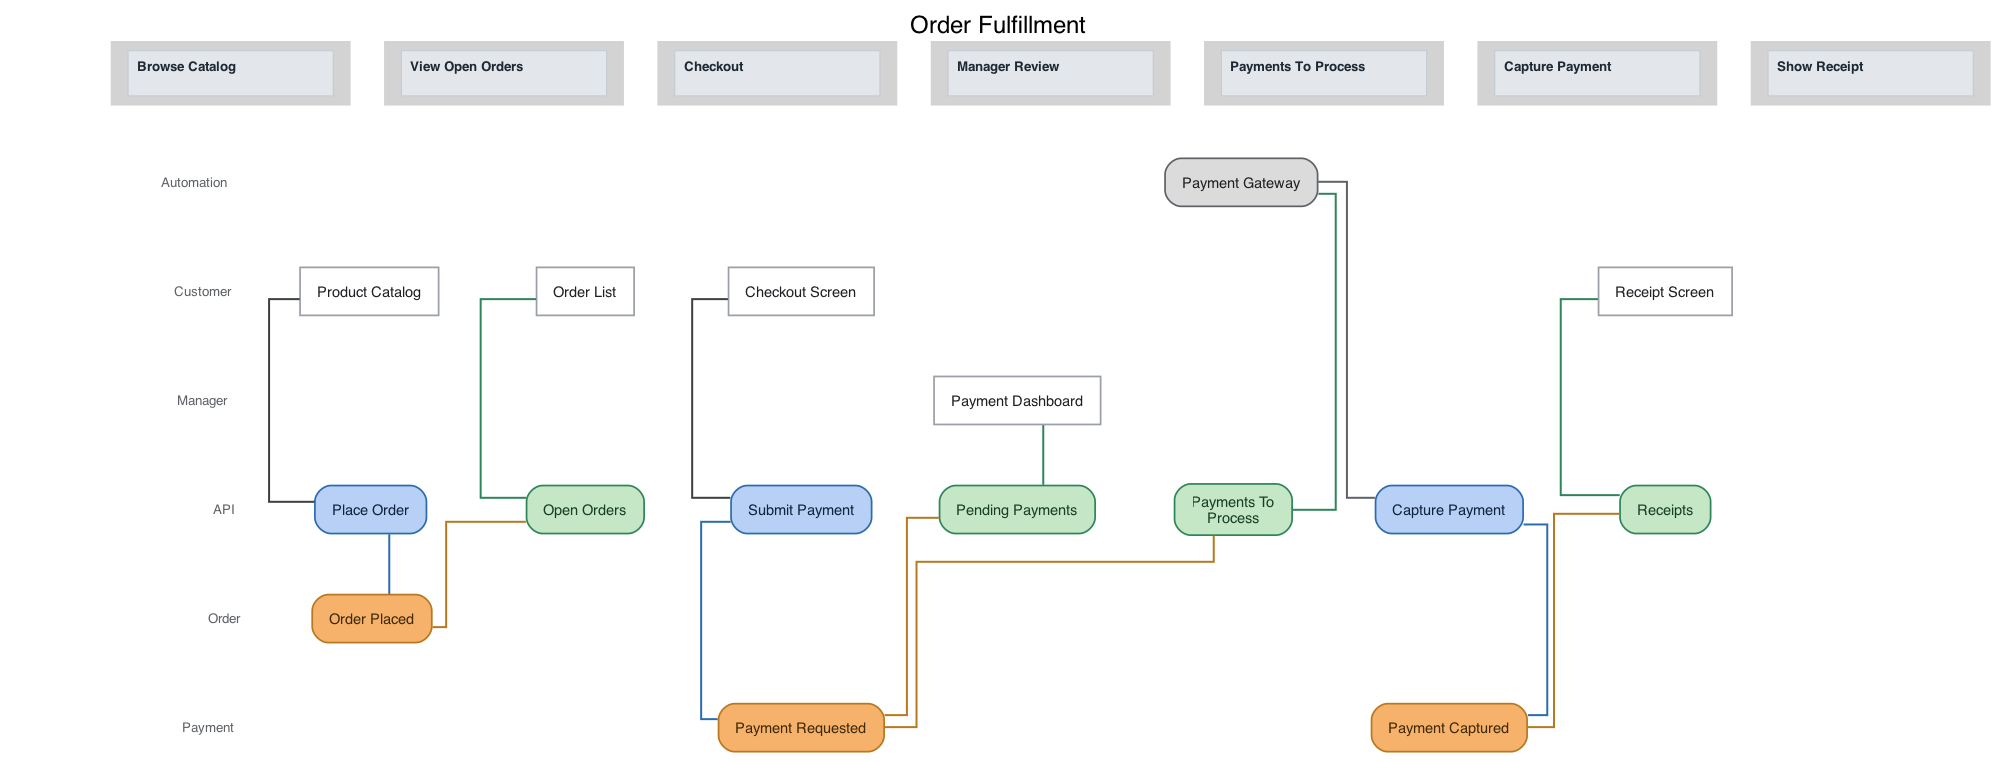
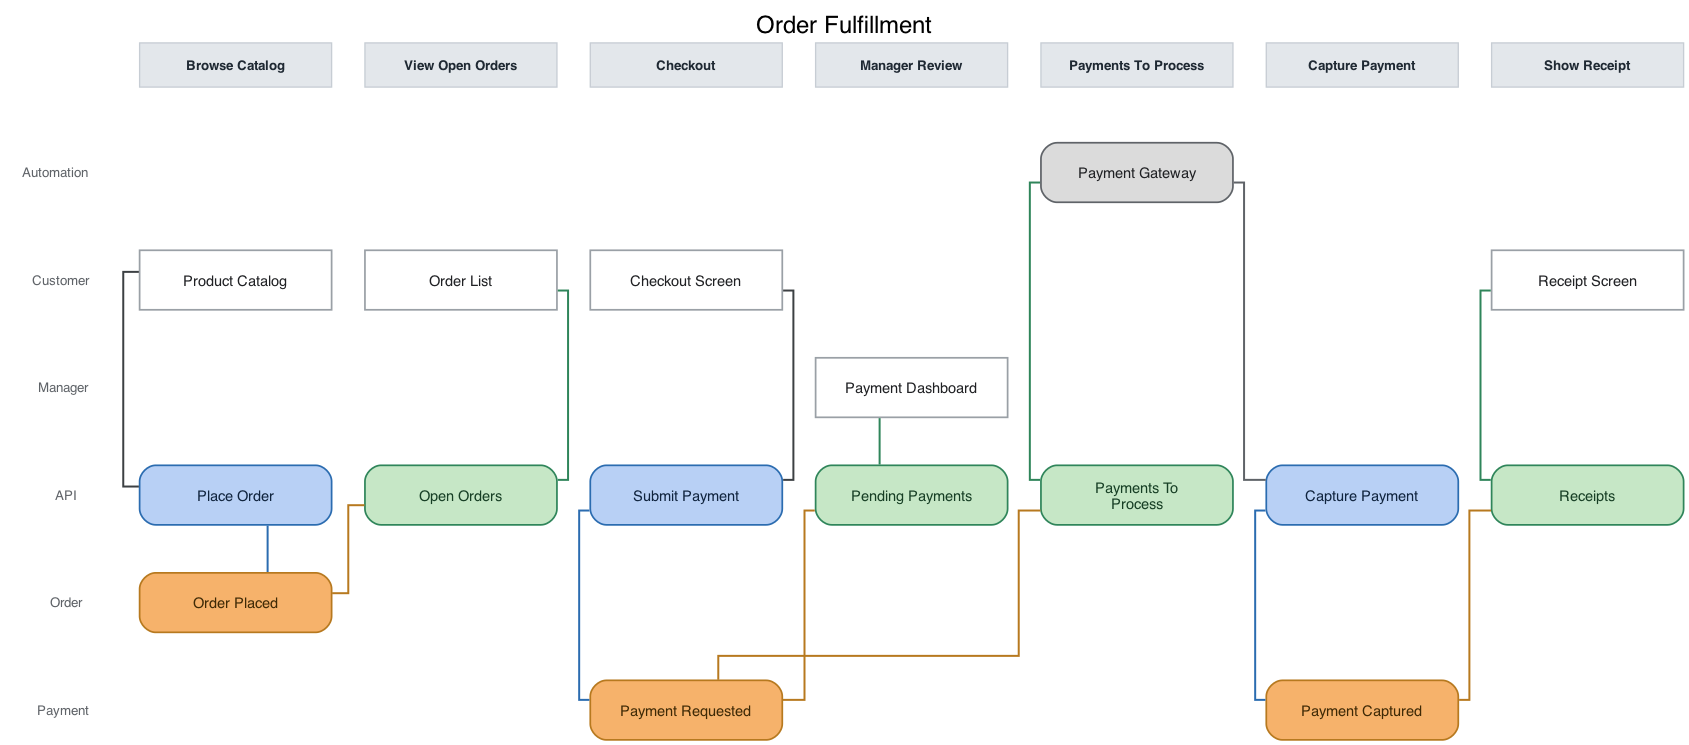
improvements

diff --git a/src/emit/dot.ts b/src/emit/dot.ts
@@ -13,8 +13,11 @@ import { edgeColorFor, styleFor } from "./theme.js";
 
 const HEADER_FILL = "#E3E7EB";
 const HEADER_BORDER = "#C7CDD4";
-const COL_W = 154; // points — header width anchors a uniform column width
-const HEADER_H = 34;
+// Every cell is the same width so columns are evenly spaced and the header row
+// lines up with the element columns. Header width (pt) must match CELL_W (in).
+const CELL_W = 2.0; // inches
+const CELL_H = 0.62;
+const HEADER_H = 0.46;
 
 interface SemanticEdge {
   from: string;
@@ -99,23 +102,22 @@ function elementCell(el: Element): string {
   const shape = el.kind === "ui" ? `"filled"` : `"filled,rounded"`;
   return (
     `${el.id} [label=${q(wrapLabel(el.name))}, fillcolor="${s.fill}", ` +
-    `color="${s.stroke}", fontcolor="${s.fontColor}", style=${shape}];`
+    `color="${s.stroke}", fontcolor="${s.fontColor}", style=${shape}, ` +
+    `fixedsize=true, width=${CELL_W}, height=${CELL_H}];`
   );
 }
 
 function emptyCell(r: number, c: number): string {
-  return `${placeholderId(r, c)} [label="", style=invis, fixedsize=true, width=1.9, height=0.6];`;
+  return `${placeholderId(r, c)} [label="", style=invis, fixedsize=true, width=${CELL_W}, height=${CELL_H}];`;
 }
 
-/** Fixed-width title cell per slice (anchors the column width). */
+/** Fixed-size title cell per slice (same width as cells, so columns line up). */
 function headerCell(c: number, name: string): string {
   return (
-    `${headerCellId(c)} [shape=plaintext, label=<<TABLE BORDER="1" ` +
-    `COLOR="${HEADER_BORDER}" CELLBORDER="0" CELLSPACING="0" CELLPADDING="6" ` +
-    `BGCOLOR="${HEADER_FILL}" WIDTH="${COL_W}" HEIGHT="${HEADER_H}">` +
-    `<TR><TD ALIGN="CENTER" VALIGN="MIDDLE">` +
-    `<FONT COLOR="#1F2933" POINT-SIZE="10"><B>${htmlLabel(name, 20)}</B></FONT>` +
-    `</TD></TR></TABLE>>];`
+    `${headerCellId(c)} [label=${q(wrapLabel(name, 20))}, shape=box, ` +
+    `style=filled, fillcolor="${HEADER_FILL}", color="${HEADER_BORDER}", ` +
+    `fontcolor="#1F2933", fontname="Helvetica-Bold", fontsize=10, ` +
+    `fixedsize=true, width=${CELL_W}, height=${HEADER_H}, penwidth=1];`
   );
 }
 
@@ -204,11 +206,6 @@ function wrapLabel(name: string, max = 18): string {
   return wrap(name, max).join("\\n");
 }
 
-/** Word-wrap + HTML-escape a label, using <BR/> between lines (header cells). */
-function htmlLabel(name: string, max = 16): string {
-  return wrap(name, max).map(htmlEscape).join("<BR/>");
-}
-
 function wrap(name: string, max: number): string[] {
   const words = name.split(/\s+/);
   const lines: string[] = [];
@@ -223,10 +220,6 @@ function wrap(name: string, max: number): string[] {
   }
   if (cur) lines.push(cur);
   return lines;
-}
-
-function htmlEscape(s: string): string {
-  return s.replace(/&/g, "&amp;").replace(/</g, "&lt;").replace(/>/g, "&gt;");
 }
 
 /** Quote a string for DOT (label newlines already encoded as \n). */